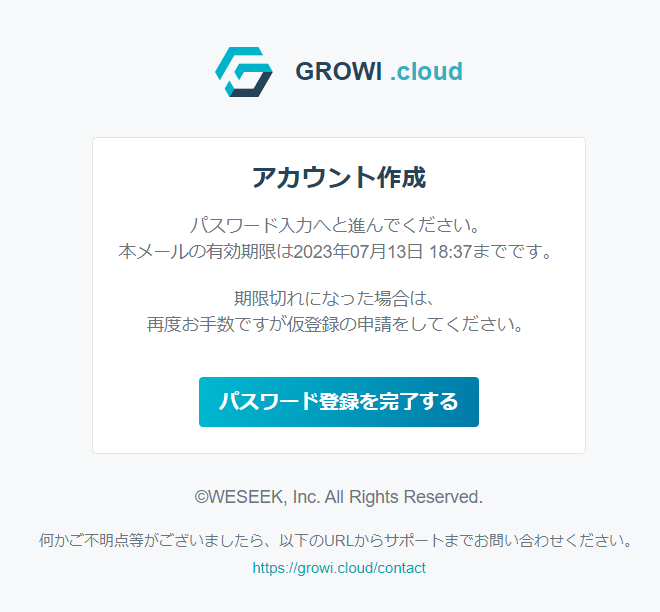
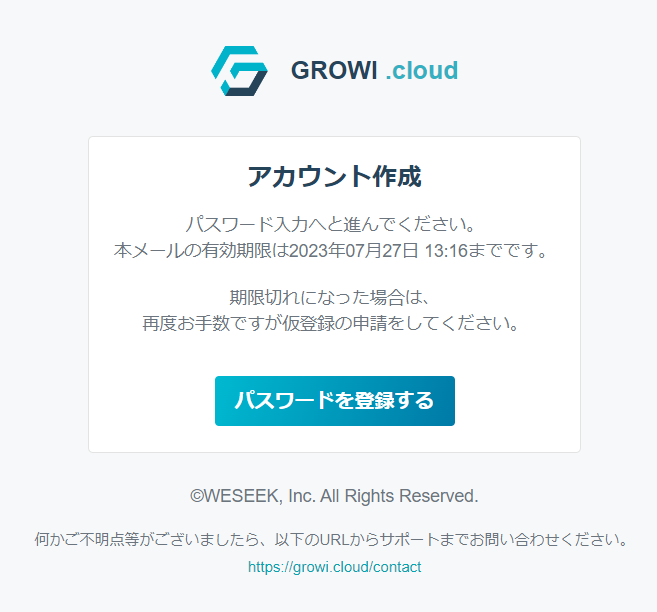
fix image

diff --git a/docs/ja/cloud/create-account.md b/docs/ja/cloud/create-account.md
@@ -25,7 +25,7 @@
 ### メールアドレスを用いて作成する場合
 
 1. [GROWI.cloud アカウント作成画面](https://growi.cloud/create-account-only) で、メールアドレスを入力
-2. `GROWI.cloud サービス仮登録` メールが届くので、`パスワード登録を完了する` をクリック
+2. `GROWI.cloud サービス仮登録` メールが届くので、`パスワードを登録する` をクリック
 
 <img :src="$withBase('/assets/images/ja/createaccount_2.png')" alt="createaccount_2.png">
 
